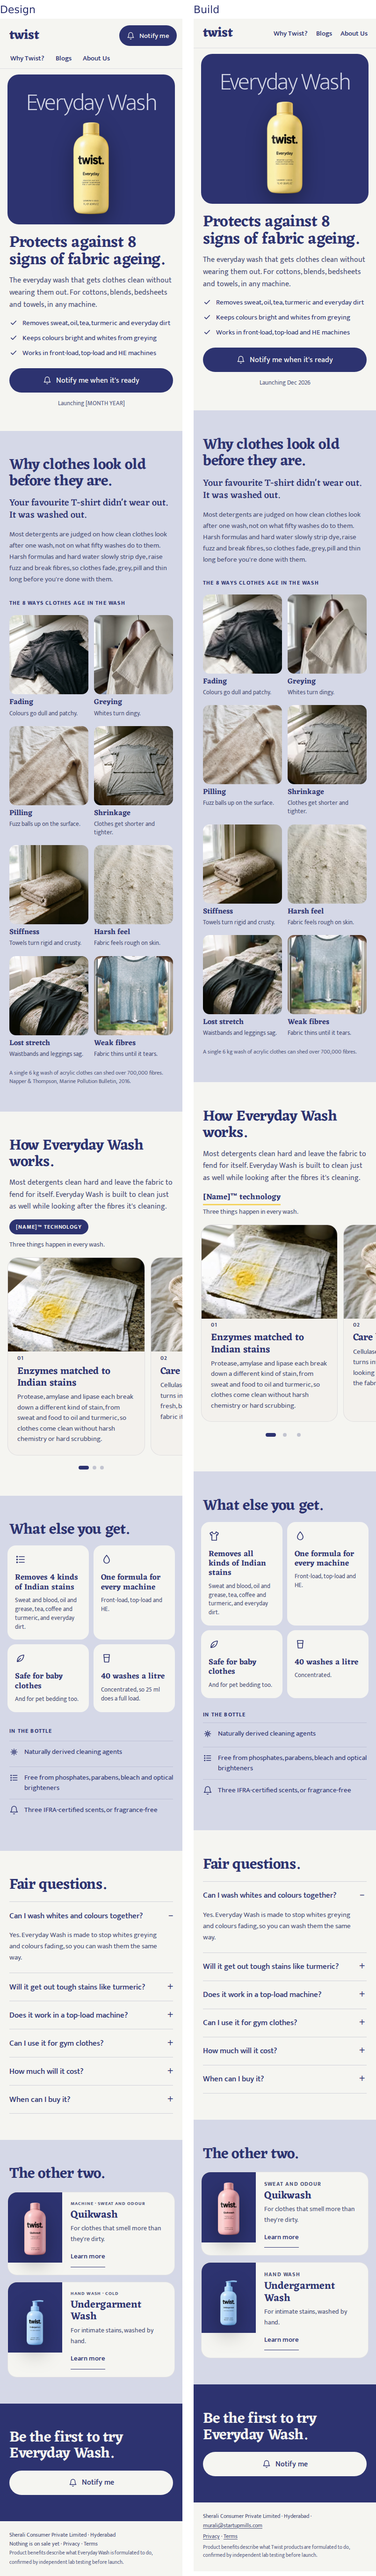
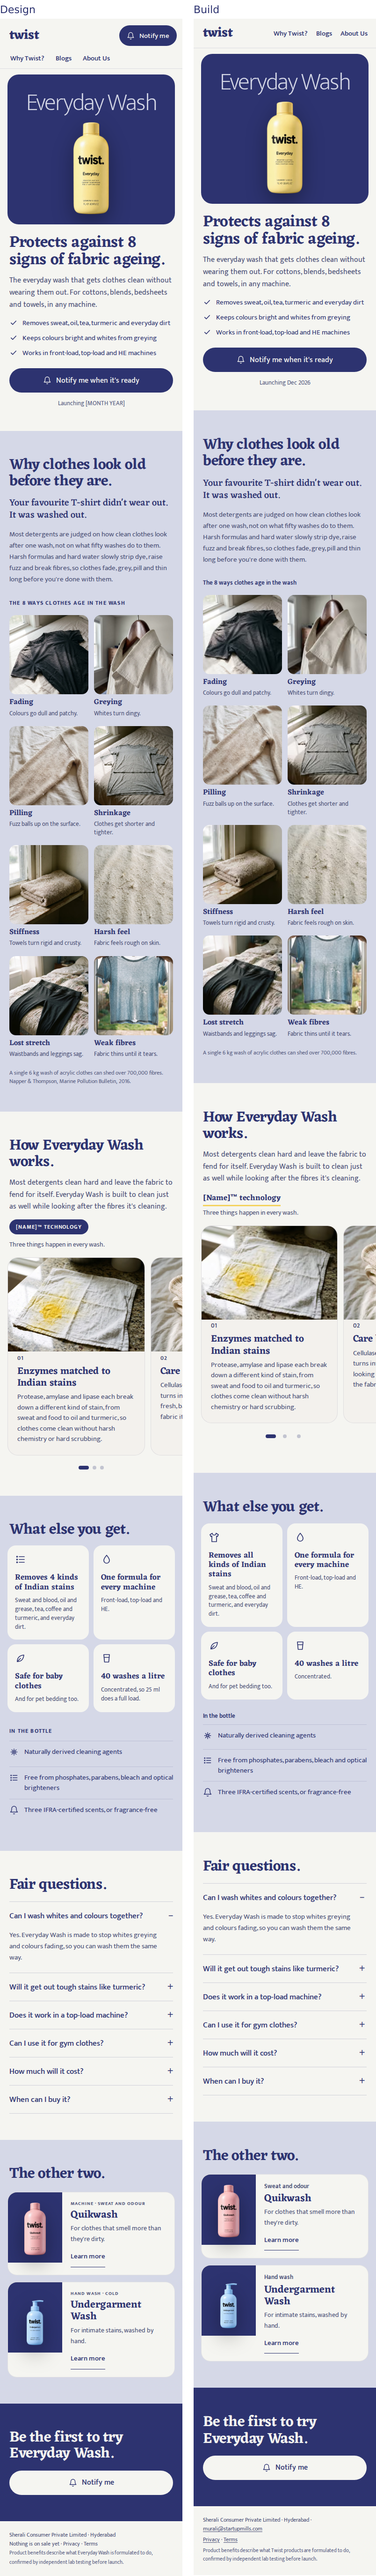
Remove uppercase site-wide; approve design changes; All fabric types tag
- Labels, callouts, table headings, placeholders and illustration text
  now use sentence case (acronyms kept); labels 13px semibold
- Everyday Wash card tag set to 'All fabric types' as requested
- Fix desktop problem illustrations rendering at half size
- IMPROVEMENTS.md, COPY.md and PLACEHOLDERS.md updated; QA refreshed

Claude-Session: https://claude.ai/code/session_01GF7dVvQbUACrui8jtz7QHA

diff --git a/src/data/illustrations.ts b/src/data/illustrations.ts
@@ -1,18 +1,18 @@
 // Generated by scripts/extract-illustrations.py from design-handoff/source. Do not edit by hand.
 export const ILLUS_MOBILE: Record<number, string> = {
-  "1": "<svg focusable=\"false\" width=\"100%\" height=\"110\" viewBox=\"0 0 620 200\" fill=\"none\" role=\"img\" aria-label=\"pH scale with healthy skin below 5 and laundry liquid at 9 or higher\"><g stroke-width=\"1.2\" style=\"stroke:var(--ink)\"><rect x=\"20\" y=\"90\" width=\"41\" height=\"40\" style=\"fill:var(--warm-5)\"></rect><rect x=\"61\" y=\"90\" width=\"41\" height=\"40\" style=\"fill:var(--warm-4)\"></rect><rect x=\"102\" y=\"90\" width=\"41\" height=\"40\" style=\"fill:var(--warm-3)\"></rect><rect x=\"143\" y=\"90\" width=\"41\" height=\"40\" style=\"fill:var(--warm-2)\"></rect><rect x=\"184\" y=\"90\" width=\"41\" height=\"40\" style=\"fill:var(--warm-1)\"></rect><rect x=\"225\" y=\"90\" width=\"123\" height=\"40\" style=\"fill:var(--surface)\"></rect><rect x=\"348\" y=\"90\" width=\"41\" height=\"40\" style=\"fill:var(--cool-1)\"></rect><rect x=\"389\" y=\"90\" width=\"41\" height=\"40\" style=\"fill:var(--cool-3)\"></rect><rect x=\"430\" y=\"90\" width=\"41\" height=\"40\" style=\"fill:var(--cool-5)\"></rect><rect x=\"471\" y=\"90\" width=\"41\" height=\"40\" style=\"fill:var(--cool-6)\"></rect><rect x=\"512\" y=\"90\" width=\"41\" height=\"40\" style=\"fill:var(--cool-8)\"></rect><rect x=\"553\" y=\"90\" width=\"41\" height=\"40\" style=\"fill:var(--cool-9)\"></rect></g><line x1=\"213\" y1=\"44\" x2=\"213\" y2=\"90\" stroke-width=\"3\" style=\"stroke:var(--ink)\"></line><line x1=\"409\" y1=\"44\" x2=\"409\" y2=\"90\" stroke-width=\"3\" style=\"stroke:var(--ink)\"></line><g class=\"svgl\" font-size=\"22\" style=\"fill:var(--ink)\"><text x=\"120\" y=\"32\">SKIN &lt; 5</text><text x=\"350\" y=\"32\">LIQUID 9+</text><text x=\"16\" y=\"170\">0</text><text x=\"290\" y=\"170\">7</text><text x=\"570\" y=\"170\">14</text></g></svg>",
-  "2": "<svg focusable=\"false\" width=\"100%\" height=\"110\" viewBox=\"0 0 620 200\" fill=\"none\" stroke-linecap=\"round\" role=\"img\" aria-label=\"A yarn shedding fibres\" style=\"stroke:var(--ink)\"><path d=\"M40 100 C 120 70, 200 130, 280 100 S 400 70, 440 100\" stroke-width=\"18\" style=\"stroke:var(--quikwash)\"></path><path d=\"M40 100 C 120 70, 200 130, 280 100 S 400 70, 440 100\" stroke-width=\"3\"></path><g stroke-width=\"2.4\"><path d=\"M440 100 q 20 -20 40 -18\"></path><path d=\"M440 100 q 24 -4 46 6\"></path><path d=\"M440 100 q 18 14 36 28\"></path><path d=\"M500 60 q 10 6 22 2\"></path><path d=\"M520 120 q 12 -8 24 -2\"></path><path d=\"M560 80 q 8 10 20 8\"></path></g><text x=\"40\" y=\"180\" class=\"svgl\" font-size=\"22\" stroke=\"none\" style=\"fill:var(--ink)\">700,000+ FIBRES PER WASH</text></svg>",
-  "3": "<svg focusable=\"false\" width=\"100%\" height=\"110\" viewBox=\"0 0 660 200\" fill=\"none\" role=\"img\" aria-label=\"Hardness scale with India's limits at 200 and 600\"><rect x=\"0\" y=\"80\" width=\"198\" height=\"40\" stroke-width=\"1.5\" style=\"fill:var(--cool-2); stroke:var(--ink)\"></rect><rect x=\"198\" y=\"80\" width=\"462\" height=\"40\" stroke-width=\"1.5\" style=\"fill:var(--cool-7); stroke:var(--ink)\"></rect><line x1=\"220\" y1=\"44\" x2=\"220\" y2=\"126\" stroke-width=\"3\" style=\"stroke:var(--ink)\"></line><line x1=\"656\" y1=\"44\" x2=\"656\" y2=\"126\" stroke-width=\"3\" style=\"stroke:var(--ink)\"></line><g class=\"svgl\" font-size=\"22\" style=\"fill:var(--ink)\"><text x=\"228\" y=\"36\">200 BIS OK</text><text x=\"470\" y=\"36\">600 MAX</text><text x=\"330\" y=\"108\">VERY HARD</text><text x=\"0\" y=\"160\">0</text><text x=\"170\" y=\"160\">180</text><text x=\"560\" y=\"160\">MG/L</text></g></svg>",
-  "4": "<svg focusable=\"false\" width=\"100%\" height=\"110\" viewBox=\"0 0 620 220\" fill=\"none\" stroke-width=\"3\" stroke-linecap=\"round\" stroke-linejoin=\"round\" role=\"img\" aria-label=\"Polyester shirt with strong odour next to cotton shirt with weaker odour\" style=\"stroke:var(--ink)\"><g transform=\"translate(110 70)\"><path d=\"M0 20 L30 0 L50 10 Q60 22 70 10 L90 0 L120 20 L105 48 L94 42 L94 120 L26 120 L26 42 L15 48 Z\" style=\"fill:var(--quikwash)\"></path></g><path d=\"M140 60 q8 -12 0 -24 q-8 -12 0 -24 M170 52 q8 -12 0 -24 q-8 -12 0 -24 M200 60 q8 -12 0 -24 q-8 -12 0 -24\" style=\"stroke:var(--ink-muted)\"></path><g transform=\"translate(390 70)\"><path d=\"M0 20 L30 0 L50 10 Q60 22 70 10 L90 0 L120 20 L105 48 L94 42 L94 120 L26 120 L26 42 L15 48 Z\" style=\"fill:var(--surface)\"></path></g><path d=\"M450 58 q8 -12 0 -24\" style=\"stroke:var(--ink-muted)\"></path><g class=\"svgl\" font-size=\"22\" stroke=\"none\" style=\"fill:var(--ink)\"><text x=\"100\" y=\"214\">POLYESTER</text><text x=\"400\" y=\"214\">COTTON</text></g></svg>",
-  "5": "<svg focusable=\"false\" width=\"100%\" height=\"110\" viewBox=\"0 0 620 200\" fill=\"none\" stroke-width=\"3\" stroke-linecap=\"round\" stroke-linejoin=\"round\" role=\"img\" aria-label=\"Protein stain chain cut up by an enzyme\" style=\"stroke:var(--ink)\"><g style=\"fill:var(--warm-5)\"><circle cx=\"60\" cy=\"100\" r=\"16\"></circle><circle cx=\"98\" cy=\"100\" r=\"16\"></circle><circle cx=\"136\" cy=\"100\" r=\"16\"></circle><circle cx=\"174\" cy=\"100\" r=\"16\"></circle><circle cx=\"212\" cy=\"100\" r=\"16\"></circle></g><circle cx=\"300\" cy=\"100\" r=\"32\" style=\"fill:var(--undergarment)\"></circle><path d=\"M300 100 L332 82 A 36 36 0 0 0 332 118 Z\" style=\"fill:var(--surface)\"></path><g style=\"fill:var(--warm-5)\"><circle cx=\"400\" cy=\"80\" r=\"13\"></circle><circle cx=\"440\" cy=\"120\" r=\"13\"></circle><circle cx=\"490\" cy=\"76\" r=\"13\"></circle><circle cx=\"530\" cy=\"120\" r=\"13\"></circle></g><text x=\"40\" y=\"180\" class=\"svgl\" font-size=\"22\" stroke=\"none\" style=\"fill:var(--ink)\">PROTEIN STAIN · ENZYME · CUT UP</text></svg>",
-  "6": "<svg focusable=\"false\" width=\"100%\" height=\"110\" viewBox=\"0 0 620 210\" fill=\"none\" stroke-width=\"3\" stroke-linejoin=\"round\" role=\"img\" aria-label=\"Detergent pack split into cleaning ingredients and filler, illustrative\" style=\"stroke:var(--ink)\"><rect x=\"200\" y=\"70\" width=\"200\" height=\"50\" stroke=\"none\" style=\"fill:var(--everyday)\"></rect><rect x=\"200\" y=\"120\" width=\"200\" height=\"70\" stroke=\"none\" style=\"fill:var(--surface-alt)\"></rect><path d=\"M200 30 h190 l10 20 v140 h-200 v-140 Z\"></path><line x1=\"200\" y1=\"120\" x2=\"400\" y2=\"120\" stroke-dasharray=\"6 6\"></line><g class=\"svgl\" font-size=\"22\" stroke=\"none\" style=\"fill:var(--ink)\"><text x=\"416\" y=\"102\">CLEANING</text><text x=\"416\" y=\"162\">FILLER</text><text x=\"20\" y=\"160\">NOT TO</text><text x=\"20\" y=\"186\">SCALE</text></g></svg>"
+  "1": "<svg focusable=\"false\" width=\"100%\" height=\"110\" viewBox=\"0 0 620 200\" fill=\"none\" role=\"img\" aria-label=\"pH scale with healthy skin below 5 and laundry liquid at 9 or higher\"><g stroke-width=\"1.2\" style=\"stroke:var(--ink)\"><rect x=\"20\" y=\"90\" width=\"41\" height=\"40\" style=\"fill:var(--warm-5)\"></rect><rect x=\"61\" y=\"90\" width=\"41\" height=\"40\" style=\"fill:var(--warm-4)\"></rect><rect x=\"102\" y=\"90\" width=\"41\" height=\"40\" style=\"fill:var(--warm-3)\"></rect><rect x=\"143\" y=\"90\" width=\"41\" height=\"40\" style=\"fill:var(--warm-2)\"></rect><rect x=\"184\" y=\"90\" width=\"41\" height=\"40\" style=\"fill:var(--warm-1)\"></rect><rect x=\"225\" y=\"90\" width=\"123\" height=\"40\" style=\"fill:var(--surface)\"></rect><rect x=\"348\" y=\"90\" width=\"41\" height=\"40\" style=\"fill:var(--cool-1)\"></rect><rect x=\"389\" y=\"90\" width=\"41\" height=\"40\" style=\"fill:var(--cool-3)\"></rect><rect x=\"430\" y=\"90\" width=\"41\" height=\"40\" style=\"fill:var(--cool-5)\"></rect><rect x=\"471\" y=\"90\" width=\"41\" height=\"40\" style=\"fill:var(--cool-6)\"></rect><rect x=\"512\" y=\"90\" width=\"41\" height=\"40\" style=\"fill:var(--cool-8)\"></rect><rect x=\"553\" y=\"90\" width=\"41\" height=\"40\" style=\"fill:var(--cool-9)\"></rect></g><line x1=\"213\" y1=\"44\" x2=\"213\" y2=\"90\" stroke-width=\"3\" style=\"stroke:var(--ink)\"></line><line x1=\"409\" y1=\"44\" x2=\"409\" y2=\"90\" stroke-width=\"3\" style=\"stroke:var(--ink)\"></line><g class=\"svgl\" font-size=\"22\" style=\"fill:var(--ink)\"><text x=\"120\" y=\"32\">Skin &lt; 5</text><text x=\"350\" y=\"32\">Liquid 9+</text><text x=\"16\" y=\"170\">0</text><text x=\"290\" y=\"170\">7</text><text x=\"570\" y=\"170\">14</text></g></svg>",
+  "2": "<svg focusable=\"false\" width=\"100%\" height=\"110\" viewBox=\"0 0 620 200\" fill=\"none\" stroke-linecap=\"round\" role=\"img\" aria-label=\"A yarn shedding fibres\" style=\"stroke:var(--ink)\"><path d=\"M40 100 C 120 70, 200 130, 280 100 S 400 70, 440 100\" stroke-width=\"18\" style=\"stroke:var(--quikwash)\"></path><path d=\"M40 100 C 120 70, 200 130, 280 100 S 400 70, 440 100\" stroke-width=\"3\"></path><g stroke-width=\"2.4\"><path d=\"M440 100 q 20 -20 40 -18\"></path><path d=\"M440 100 q 24 -4 46 6\"></path><path d=\"M440 100 q 18 14 36 28\"></path><path d=\"M500 60 q 10 6 22 2\"></path><path d=\"M520 120 q 12 -8 24 -2\"></path><path d=\"M560 80 q 8 10 20 8\"></path></g><text x=\"40\" y=\"180\" class=\"svgl\" font-size=\"22\" stroke=\"none\" style=\"fill:var(--ink)\">700,000+ fibres per wash</text></svg>",
+  "3": "<svg focusable=\"false\" width=\"100%\" height=\"110\" viewBox=\"0 0 660 200\" fill=\"none\" role=\"img\" aria-label=\"Hardness scale with India's limits at 200 and 600\"><rect x=\"0\" y=\"80\" width=\"198\" height=\"40\" stroke-width=\"1.5\" style=\"fill:var(--cool-2); stroke:var(--ink)\"></rect><rect x=\"198\" y=\"80\" width=\"462\" height=\"40\" stroke-width=\"1.5\" style=\"fill:var(--cool-7); stroke:var(--ink)\"></rect><line x1=\"220\" y1=\"44\" x2=\"220\" y2=\"126\" stroke-width=\"3\" style=\"stroke:var(--ink)\"></line><line x1=\"656\" y1=\"44\" x2=\"656\" y2=\"126\" stroke-width=\"3\" style=\"stroke:var(--ink)\"></line><g class=\"svgl\" font-size=\"22\" style=\"fill:var(--ink)\"><text x=\"228\" y=\"36\">200 BIS OK</text><text x=\"470\" y=\"36\">600 max</text><text x=\"330\" y=\"108\">Very hard</text><text x=\"0\" y=\"160\">0</text><text x=\"170\" y=\"160\">180</text><text x=\"560\" y=\"160\">mg/L</text></g></svg>",
+  "4": "<svg focusable=\"false\" width=\"100%\" height=\"110\" viewBox=\"0 0 620 220\" fill=\"none\" stroke-width=\"3\" stroke-linecap=\"round\" stroke-linejoin=\"round\" role=\"img\" aria-label=\"Polyester shirt with strong odour next to cotton shirt with weaker odour\" style=\"stroke:var(--ink)\"><g transform=\"translate(110 70)\"><path d=\"M0 20 L30 0 L50 10 Q60 22 70 10 L90 0 L120 20 L105 48 L94 42 L94 120 L26 120 L26 42 L15 48 Z\" style=\"fill:var(--quikwash)\"></path></g><path d=\"M140 60 q8 -12 0 -24 q-8 -12 0 -24 M170 52 q8 -12 0 -24 q-8 -12 0 -24 M200 60 q8 -12 0 -24 q-8 -12 0 -24\" style=\"stroke:var(--ink-muted)\"></path><g transform=\"translate(390 70)\"><path d=\"M0 20 L30 0 L50 10 Q60 22 70 10 L90 0 L120 20 L105 48 L94 42 L94 120 L26 120 L26 42 L15 48 Z\" style=\"fill:var(--surface)\"></path></g><path d=\"M450 58 q8 -12 0 -24\" style=\"stroke:var(--ink-muted)\"></path><g class=\"svgl\" font-size=\"22\" stroke=\"none\" style=\"fill:var(--ink)\"><text x=\"100\" y=\"214\">Polyester</text><text x=\"400\" y=\"214\">Cotton</text></g></svg>",
+  "5": "<svg focusable=\"false\" width=\"100%\" height=\"110\" viewBox=\"0 0 620 200\" fill=\"none\" stroke-width=\"3\" stroke-linecap=\"round\" stroke-linejoin=\"round\" role=\"img\" aria-label=\"Protein stain chain cut up by an enzyme\" style=\"stroke:var(--ink)\"><g style=\"fill:var(--warm-5)\"><circle cx=\"60\" cy=\"100\" r=\"16\"></circle><circle cx=\"98\" cy=\"100\" r=\"16\"></circle><circle cx=\"136\" cy=\"100\" r=\"16\"></circle><circle cx=\"174\" cy=\"100\" r=\"16\"></circle><circle cx=\"212\" cy=\"100\" r=\"16\"></circle></g><circle cx=\"300\" cy=\"100\" r=\"32\" style=\"fill:var(--undergarment)\"></circle><path d=\"M300 100 L332 82 A 36 36 0 0 0 332 118 Z\" style=\"fill:var(--surface)\"></path><g style=\"fill:var(--warm-5)\"><circle cx=\"400\" cy=\"80\" r=\"13\"></circle><circle cx=\"440\" cy=\"120\" r=\"13\"></circle><circle cx=\"490\" cy=\"76\" r=\"13\"></circle><circle cx=\"530\" cy=\"120\" r=\"13\"></circle></g><text x=\"40\" y=\"180\" class=\"svgl\" font-size=\"22\" stroke=\"none\" style=\"fill:var(--ink)\">Protein stain · enzyme · cut up</text></svg>",
+  "6": "<svg focusable=\"false\" width=\"100%\" height=\"110\" viewBox=\"0 0 620 210\" fill=\"none\" stroke-width=\"3\" stroke-linejoin=\"round\" role=\"img\" aria-label=\"Detergent pack split into cleaning ingredients and filler, illustrative\" style=\"stroke:var(--ink)\"><rect x=\"200\" y=\"70\" width=\"200\" height=\"50\" stroke=\"none\" style=\"fill:var(--everyday)\"></rect><rect x=\"200\" y=\"120\" width=\"200\" height=\"70\" stroke=\"none\" style=\"fill:var(--surface-alt)\"></rect><path d=\"M200 30 h190 l10 20 v140 h-200 v-140 Z\"></path><line x1=\"200\" y1=\"120\" x2=\"400\" y2=\"120\" stroke-dasharray=\"6 6\"></line><g class=\"svgl\" font-size=\"22\" stroke=\"none\" style=\"fill:var(--ink)\"><text x=\"416\" y=\"102\">Cleaning</text><text x=\"416\" y=\"162\">Filler</text><text x=\"20\" y=\"160\">Not to</text><text x=\"20\" y=\"186\">scale</text></g></svg>"
 };
 
 export const ILLUS_DESKTOP: Record<number, string> = {
-  "1": "<svg focusable=\"false\" width=\"620\" height=\"200\" viewBox=\"0 0 620 200\" fill=\"none\" role=\"img\" aria-label=\"pH scale from 0 to 14 with healthy skin below 5 and laundry liquid at 9 or higher\"><g stroke-width=\"1.2\" style=\"stroke:var(--ink)\"><rect x=\"20\" y=\"90\" width=\"41\" height=\"40\" style=\"fill:var(--warm-5)\"></rect><rect x=\"61\" y=\"90\" width=\"41\" height=\"40\" style=\"fill:var(--warm-4)\"></rect><rect x=\"102\" y=\"90\" width=\"41\" height=\"40\" style=\"fill:var(--warm-3)\"></rect><rect x=\"143\" y=\"90\" width=\"41\" height=\"40\" style=\"fill:var(--warm-2)\"></rect><rect x=\"184\" y=\"90\" width=\"41\" height=\"40\" style=\"fill:var(--warm-1)\"></rect><rect x=\"225\" y=\"90\" width=\"41\" height=\"40\" style=\"fill:var(--surface)\"></rect><rect x=\"266\" y=\"90\" width=\"41\" height=\"40\" style=\"fill:var(--surface)\"></rect><rect x=\"307\" y=\"90\" width=\"41\" height=\"40\" style=\"fill:var(--surface)\"></rect><rect x=\"348\" y=\"90\" width=\"41\" height=\"40\" style=\"fill:var(--cool-1)\"></rect><rect x=\"389\" y=\"90\" width=\"41\" height=\"40\" style=\"fill:var(--cool-3)\"></rect><rect x=\"430\" y=\"90\" width=\"41\" height=\"40\" style=\"fill:var(--cool-5)\"></rect><rect x=\"471\" y=\"90\" width=\"41\" height=\"40\" style=\"fill:var(--cool-6)\"></rect><rect x=\"512\" y=\"90\" width=\"41\" height=\"40\" style=\"fill:var(--cool-8)\"></rect><rect x=\"553\" y=\"90\" width=\"41\" height=\"40\" style=\"fill:var(--cool-9)\"></rect></g><g class=\"svgl\" font-size=\"11\" style=\"fill:var(--ink-muted)\"><text x=\"16\" y=\"150\">0</text><text x=\"292\" y=\"150\">7</text><text x=\"584\" y=\"150\">14</text><text x=\"20\" y=\"172\">ACIDIC</text><text x=\"276\" y=\"172\">NEUTRAL</text><text x=\"536\" y=\"172\">ALKALINE</text></g><line x1=\"213\" y1=\"44\" x2=\"213\" y2=\"90\" stroke-width=\"2\" style=\"stroke:var(--ink)\"></line><circle cx=\"213\" cy=\"44\" r=\"5\" style=\"fill:var(--ink)\"></circle><text x=\"120\" y=\"32\" class=\"svgl\" font-size=\"12\" style=\"fill:var(--ink)\">HEALTHY SKIN · BELOW 5</text><line x1=\"409\" y1=\"44\" x2=\"409\" y2=\"90\" stroke-width=\"2\" style=\"stroke:var(--ink)\"></line><circle cx=\"409\" cy=\"44\" r=\"5\" style=\"fill:var(--ink)\"></circle><text x=\"339\" y=\"32\" class=\"svgl\" font-size=\"12\" style=\"fill:var(--ink)\">LAUNDRY LIQUID · 9+</text></svg>",
-  "2": "<svg focusable=\"false\" width=\"620\" height=\"200\" viewBox=\"0 0 620 200\" fill=\"none\" stroke-linecap=\"round\" role=\"img\" aria-label=\"A yarn fraying and shedding loose fibres\" style=\"stroke:var(--ink)\"><path d=\"M40 110 C 120 80, 200 140, 280 110 S 400 80, 440 110\" stroke-width=\"14\" style=\"stroke:var(--quikwash)\"></path><path d=\"M40 110 C 120 80, 200 140, 280 110 S 400 80, 440 110\" stroke-width=\"2\"></path><path d=\"M60 104 C 120 76, 200 136, 280 104 S 400 76, 440 104\" stroke-width=\"1.2\" opacity=\".5\"></path><path d=\"M60 116 C 120 88, 200 148, 280 116 S 400 88, 440 116\" stroke-width=\"1.2\" opacity=\".5\"></path><g stroke-width=\"1.4\"><path d=\"M440 110 q 20 -20 40 -18\"></path><path d=\"M440 110 q 24 -4 46 6\"></path><path d=\"M440 110 q 18 14 36 28\"></path><path d=\"M500 70 q 10 6 22 2\"></path><path d=\"M520 120 q 12 -8 24 -2\"></path><path d=\"M540 88 q 8 10 20 8\"></path><path d=\"M560 140 q 10 -4 18 4\"></path><path d=\"M580 100 q 6 -8 16 -6\"></path><path d=\"M500 160 q 10 -6 20 0\"></path><path d=\"M556 56 q 8 4 16 0\"></path></g><text x=\"40\" y=\"180\" class=\"svgl\" font-size=\"12\" stroke=\"none\" style=\"fill:var(--ink)\">ONE 6 KG ACRYLIC WASH · 700,000+ FIBRES SHED</text></svg>",
-  "3": "<svg focusable=\"false\" width=\"620\" height=\"200\" viewBox=\"0 0 660 200\" fill=\"none\" role=\"img\" aria-label=\"Water hardness scale from 0 to 600 milligrams per litre with India's limits at 200 and 600\"><rect x=\"0\" y=\"80\" width=\"66\" height=\"36\" stroke-width=\"1.5\" style=\"fill:var(--surface); stroke:var(--ink)\"></rect><rect x=\"66\" y=\"80\" width=\"66\" height=\"36\" stroke-width=\"1.5\" style=\"fill:var(--cool-2); stroke:var(--ink)\"></rect><rect x=\"132\" y=\"80\" width=\"66\" height=\"36\" stroke-width=\"1.5\" style=\"fill:var(--cool-4); stroke:var(--ink)\"></rect><rect x=\"198\" y=\"80\" width=\"462\" height=\"36\" stroke-width=\"1.5\" style=\"fill:var(--cool-7); stroke:var(--ink)\"></rect><g class=\"svgl\" font-size=\"11\" style=\"fill:var(--ink)\"><text x=\"6\" y=\"103\">SOFT</text><text x=\"72\" y=\"103\">MOD.</text><text x=\"138\" y=\"103\">HARD</text><text x=\"360\" y=\"103\">VERY HARD</text></g><g class=\"svgl\" font-size=\"11\" style=\"fill:var(--ink-muted)\"><text x=\"0\" y=\"136\">0</text><text x=\"186\" y=\"136\">180</text><text x=\"630\" y=\"136\">600 MG/L</text></g><line x1=\"220\" y1=\"50\" x2=\"220\" y2=\"122\" stroke-width=\"2\" style=\"stroke:var(--ink)\"></line><circle cx=\"220\" cy=\"50\" r=\"4\" style=\"fill:var(--ink)\"></circle><text x=\"228\" y=\"46\" class=\"svgl\" font-size=\"11\" style=\"fill:var(--ink)\">200 · BIS ACCEPTABLE</text><line x1=\"658\" y1=\"50\" x2=\"658\" y2=\"122\" stroke-width=\"2\" style=\"stroke:var(--ink)\"></line><circle cx=\"658\" cy=\"50\" r=\"4\" style=\"fill:var(--ink)\"></circle><text x=\"452\" y=\"30\" class=\"svgl\" font-size=\"11\" style=\"fill:var(--ink)\">600 · BIS IF NO OTHER SOURCE</text></svg>",
-  "4": "<svg focusable=\"false\" width=\"620\" height=\"210\" viewBox=\"0 0 620 210\" fill=\"none\" stroke-width=\"2\" stroke-linecap=\"round\" stroke-linejoin=\"round\" role=\"img\" aria-label=\"A polyester shirt giving off strong odour next to a cotton shirt giving off much less\" style=\"stroke:var(--ink)\"><g transform=\"translate(110 70)\"><path d=\"M0 20 L30 0 L50 10 Q60 22 70 10 L90 0 L120 20 L105 48 L94 42 L94 120 L26 120 L26 42 L15 48 Z\" style=\"fill:var(--quikwash)\"></path></g><path d=\"M140 60 q8 -12 0 -24 q-8 -12 0 -24 M170 52 q8 -12 0 -24 q-8 -12 0 -24 M200 60 q8 -12 0 -24 q-8 -12 0 -24\" stroke-width=\"1.8\" style=\"stroke:var(--ink-muted)\"></path><g stroke=\"none\" style=\"fill:var(--ink)\"><ellipse cx=\"150\" cy=\"130\" rx=\"5\" ry=\"3\"></ellipse><ellipse cx=\"172\" cy=\"146\" rx=\"5\" ry=\"3\"></ellipse><ellipse cx=\"190\" cy=\"124\" rx=\"5\" ry=\"3\"></ellipse><ellipse cx=\"160\" cy=\"162\" rx=\"5\" ry=\"3\"></ellipse><ellipse cx=\"200\" cy=\"156\" rx=\"5\" ry=\"3\"></ellipse></g><g transform=\"translate(390 70)\"><path d=\"M0 20 L30 0 L50 10 Q60 22 70 10 L90 0 L120 20 L105 48 L94 42 L94 120 L26 120 L26 42 L15 48 Z\" style=\"fill:var(--surface)\"></path></g><path d=\"M450 58 q8 -12 0 -24\" stroke-width=\"1.8\" style=\"stroke:var(--ink-muted)\"></path><g class=\"svgl\" font-size=\"12\" stroke=\"none\" style=\"fill:var(--ink)\"><text x=\"120\" y=\"206\">POLYESTER · STRONGER ODOUR</text><text x=\"400\" y=\"206\">COTTON · WEAKER</text></g></svg>",
-  "5": "<svg focusable=\"false\" width=\"620\" height=\"200\" viewBox=\"0 0 620 200\" fill=\"none\" stroke-width=\"2\" stroke-linecap=\"round\" stroke-linejoin=\"round\" role=\"img\" aria-label=\"A protein stain chain being cut into small pieces by an enzyme, next to a bar of soap with no enzymes\" style=\"stroke:var(--ink)\"><rect x=\"40\" y=\"70\" width=\"130\" height=\"70\" rx=\"18\" style=\"fill:var(--surface)\"></rect><path d=\"M60 92 h90 M60 106 h70\" stroke-width=\"1.4\" opacity=\".4\"></path><text x=\"44\" y=\"170\" class=\"svgl\" font-size=\"12\" stroke=\"none\" style=\"fill:var(--ink)\">BAR SOAP · NO ENZYMES</text><g stroke-width=\"1.4\" style=\"fill:var(--warm-5); stroke:var(--ink)\"><circle cx=\"250\" cy=\"100\" r=\"11\"></circle><circle cx=\"276\" cy=\"100\" r=\"11\"></circle><circle cx=\"302\" cy=\"100\" r=\"11\"></circle><circle cx=\"328\" cy=\"100\" r=\"11\"></circle><circle cx=\"354\" cy=\"100\" r=\"11\"></circle></g><path d=\"M380 76 L406 100 L380 124\" stroke-width=\"2.4\"></path><path d=\"M388 100 h40\" stroke-dasharray=\"3 5\"></path><circle cx=\"398\" cy=\"100\" r=\"22\" style=\"fill:var(--undergarment)\"></circle><path d=\"M398 100 L420 88 A 24 24 0 0 0 420 112 Z\" style=\"fill:var(--surface)\"></path><g stroke-width=\"1.4\" style=\"fill:var(--warm-5); stroke:var(--ink)\"><circle cx=\"470\" cy=\"84\" r=\"9\"></circle><circle cx=\"500\" cy=\"112\" r=\"9\"></circle><circle cx=\"530\" cy=\"80\" r=\"9\"></circle><circle cx=\"556\" cy=\"116\" r=\"9\"></circle></g><text x=\"240\" y=\"170\" class=\"svgl\" font-size=\"12\" stroke=\"none\" style=\"fill:var(--ink)\">PROTEIN STAIN · CUT UP BY AN ENZYME</text></svg>",
-  "6": "<svg focusable=\"false\" width=\"620\" height=\"210\" viewBox=\"0 0 620 210\" fill=\"none\" stroke-width=\"2\" stroke-linejoin=\"round\" role=\"img\" aria-label=\"Cross-section of a detergent pack split into filler and cleaning ingredients, illustrative only\" style=\"stroke:var(--ink)\"><path d=\"M220 30 h180 l10 20 v140 h-200 v-140 Z\" style=\"fill:var(--surface)\"></path><rect x=\"212\" y=\"120\" width=\"196\" height=\"68\" stroke=\"none\" style=\"fill:var(--surface-alt)\"></rect><g stroke-width=\"1\" opacity=\".6\" style=\"stroke:var(--ink-muted)\"><path d=\"M220 130 l20 -10 M240 150 l40 -20 M260 170 l60 -30 M300 180 l80 -40 M350 186 l58 -30 M220 170 l40 -20\"></path></g><rect x=\"212\" y=\"70\" width=\"196\" height=\"50\" stroke=\"none\" style=\"fill:var(--everyday)\"></rect><path d=\"M220 30 h180 l10 20 v140 h-200 v-140 Z\" fill=\"none\"></path><line x1=\"210\" y1=\"120\" x2=\"410\" y2=\"120\" stroke-dasharray=\"4 4\"></line><g class=\"svgl\" font-size=\"12\" stroke=\"none\" style=\"fill:var(--ink)\"><text x=\"430\" y=\"100\">CLEANING INGREDIENTS</text><text x=\"430\" y=\"160\">FILLER · ADDS WEIGHT</text><text x=\"30\" y=\"160\">ILLUSTRATIVE,</text><text x=\"30\" y=\"176\">NOT TO SCALE</text></g><path d=\"M424 96 h-14 M424 156 h-14\"></path></svg>"
+  "1": "<svg focusable=\"false\" width=\"620\" height=\"200\" viewBox=\"0 0 620 200\" fill=\"none\" role=\"img\" aria-label=\"pH scale from 0 to 14 with healthy skin below 5 and laundry liquid at 9 or higher\"><g stroke-width=\"1.2\" style=\"stroke:var(--ink)\"><rect x=\"20\" y=\"90\" width=\"41\" height=\"40\" style=\"fill:var(--warm-5)\"></rect><rect x=\"61\" y=\"90\" width=\"41\" height=\"40\" style=\"fill:var(--warm-4)\"></rect><rect x=\"102\" y=\"90\" width=\"41\" height=\"40\" style=\"fill:var(--warm-3)\"></rect><rect x=\"143\" y=\"90\" width=\"41\" height=\"40\" style=\"fill:var(--warm-2)\"></rect><rect x=\"184\" y=\"90\" width=\"41\" height=\"40\" style=\"fill:var(--warm-1)\"></rect><rect x=\"225\" y=\"90\" width=\"41\" height=\"40\" style=\"fill:var(--surface)\"></rect><rect x=\"266\" y=\"90\" width=\"41\" height=\"40\" style=\"fill:var(--surface)\"></rect><rect x=\"307\" y=\"90\" width=\"41\" height=\"40\" style=\"fill:var(--surface)\"></rect><rect x=\"348\" y=\"90\" width=\"41\" height=\"40\" style=\"fill:var(--cool-1)\"></rect><rect x=\"389\" y=\"90\" width=\"41\" height=\"40\" style=\"fill:var(--cool-3)\"></rect><rect x=\"430\" y=\"90\" width=\"41\" height=\"40\" style=\"fill:var(--cool-5)\"></rect><rect x=\"471\" y=\"90\" width=\"41\" height=\"40\" style=\"fill:var(--cool-6)\"></rect><rect x=\"512\" y=\"90\" width=\"41\" height=\"40\" style=\"fill:var(--cool-8)\"></rect><rect x=\"553\" y=\"90\" width=\"41\" height=\"40\" style=\"fill:var(--cool-9)\"></rect></g><g class=\"svgl\" font-size=\"11\" style=\"fill:var(--ink-muted)\"><text x=\"16\" y=\"150\">0</text><text x=\"292\" y=\"150\">7</text><text x=\"584\" y=\"150\">14</text><text x=\"20\" y=\"172\">Acidic</text><text x=\"276\" y=\"172\">Neutral</text><text x=\"536\" y=\"172\">Alkaline</text></g><line x1=\"213\" y1=\"44\" x2=\"213\" y2=\"90\" stroke-width=\"2\" style=\"stroke:var(--ink)\"></line><circle cx=\"213\" cy=\"44\" r=\"5\" style=\"fill:var(--ink)\"></circle><text x=\"120\" y=\"32\" class=\"svgl\" font-size=\"12\" style=\"fill:var(--ink)\">Healthy skin · below 5</text><line x1=\"409\" y1=\"44\" x2=\"409\" y2=\"90\" stroke-width=\"2\" style=\"stroke:var(--ink)\"></line><circle cx=\"409\" cy=\"44\" r=\"5\" style=\"fill:var(--ink)\"></circle><text x=\"339\" y=\"32\" class=\"svgl\" font-size=\"12\" style=\"fill:var(--ink)\">Laundry liquid · 9+</text></svg>",
+  "2": "<svg focusable=\"false\" width=\"620\" height=\"200\" viewBox=\"0 0 620 200\" fill=\"none\" stroke-linecap=\"round\" role=\"img\" aria-label=\"A yarn fraying and shedding loose fibres\" style=\"stroke:var(--ink)\"><path d=\"M40 110 C 120 80, 200 140, 280 110 S 400 80, 440 110\" stroke-width=\"14\" style=\"stroke:var(--quikwash)\"></path><path d=\"M40 110 C 120 80, 200 140, 280 110 S 400 80, 440 110\" stroke-width=\"2\"></path><path d=\"M60 104 C 120 76, 200 136, 280 104 S 400 76, 440 104\" stroke-width=\"1.2\" opacity=\".5\"></path><path d=\"M60 116 C 120 88, 200 148, 280 116 S 400 88, 440 116\" stroke-width=\"1.2\" opacity=\".5\"></path><g stroke-width=\"1.4\"><path d=\"M440 110 q 20 -20 40 -18\"></path><path d=\"M440 110 q 24 -4 46 6\"></path><path d=\"M440 110 q 18 14 36 28\"></path><path d=\"M500 70 q 10 6 22 2\"></path><path d=\"M520 120 q 12 -8 24 -2\"></path><path d=\"M540 88 q 8 10 20 8\"></path><path d=\"M560 140 q 10 -4 18 4\"></path><path d=\"M580 100 q 6 -8 16 -6\"></path><path d=\"M500 160 q 10 -6 20 0\"></path><path d=\"M556 56 q 8 4 16 0\"></path></g><text x=\"40\" y=\"180\" class=\"svgl\" font-size=\"12\" stroke=\"none\" style=\"fill:var(--ink)\">One 6 kg acrylic wash · 700,000+ fibres shed</text></svg>",
+  "3": "<svg focusable=\"false\" width=\"620\" height=\"200\" viewBox=\"0 0 660 200\" fill=\"none\" role=\"img\" aria-label=\"Water hardness scale from 0 to 600 milligrams per litre with India's limits at 200 and 600\"><rect x=\"0\" y=\"80\" width=\"66\" height=\"36\" stroke-width=\"1.5\" style=\"fill:var(--surface); stroke:var(--ink)\"></rect><rect x=\"66\" y=\"80\" width=\"66\" height=\"36\" stroke-width=\"1.5\" style=\"fill:var(--cool-2); stroke:var(--ink)\"></rect><rect x=\"132\" y=\"80\" width=\"66\" height=\"36\" stroke-width=\"1.5\" style=\"fill:var(--cool-4); stroke:var(--ink)\"></rect><rect x=\"198\" y=\"80\" width=\"462\" height=\"36\" stroke-width=\"1.5\" style=\"fill:var(--cool-7); stroke:var(--ink)\"></rect><g class=\"svgl\" font-size=\"11\" style=\"fill:var(--ink)\"><text x=\"6\" y=\"103\">Soft</text><text x=\"72\" y=\"103\">Mod.</text><text x=\"138\" y=\"103\">Hard</text><text x=\"360\" y=\"103\">Very hard</text></g><g class=\"svgl\" font-size=\"11\" style=\"fill:var(--ink-muted)\"><text x=\"0\" y=\"136\">0</text><text x=\"186\" y=\"136\">180</text><text x=\"630\" y=\"136\">600 mg/L</text></g><line x1=\"220\" y1=\"50\" x2=\"220\" y2=\"122\" stroke-width=\"2\" style=\"stroke:var(--ink)\"></line><circle cx=\"220\" cy=\"50\" r=\"4\" style=\"fill:var(--ink)\"></circle><text x=\"228\" y=\"46\" class=\"svgl\" font-size=\"11\" style=\"fill:var(--ink)\">200 · BIS acceptable</text><line x1=\"658\" y1=\"50\" x2=\"658\" y2=\"122\" stroke-width=\"2\" style=\"stroke:var(--ink)\"></line><circle cx=\"658\" cy=\"50\" r=\"4\" style=\"fill:var(--ink)\"></circle><text x=\"452\" y=\"30\" class=\"svgl\" font-size=\"11\" style=\"fill:var(--ink)\">600 · BIS if no other source</text></svg>",
+  "4": "<svg focusable=\"false\" width=\"620\" height=\"210\" viewBox=\"0 0 620 210\" fill=\"none\" stroke-width=\"2\" stroke-linecap=\"round\" stroke-linejoin=\"round\" role=\"img\" aria-label=\"A polyester shirt giving off strong odour next to a cotton shirt giving off much less\" style=\"stroke:var(--ink)\"><g transform=\"translate(110 70)\"><path d=\"M0 20 L30 0 L50 10 Q60 22 70 10 L90 0 L120 20 L105 48 L94 42 L94 120 L26 120 L26 42 L15 48 Z\" style=\"fill:var(--quikwash)\"></path></g><path d=\"M140 60 q8 -12 0 -24 q-8 -12 0 -24 M170 52 q8 -12 0 -24 q-8 -12 0 -24 M200 60 q8 -12 0 -24 q-8 -12 0 -24\" stroke-width=\"1.8\" style=\"stroke:var(--ink-muted)\"></path><g stroke=\"none\" style=\"fill:var(--ink)\"><ellipse cx=\"150\" cy=\"130\" rx=\"5\" ry=\"3\"></ellipse><ellipse cx=\"172\" cy=\"146\" rx=\"5\" ry=\"3\"></ellipse><ellipse cx=\"190\" cy=\"124\" rx=\"5\" ry=\"3\"></ellipse><ellipse cx=\"160\" cy=\"162\" rx=\"5\" ry=\"3\"></ellipse><ellipse cx=\"200\" cy=\"156\" rx=\"5\" ry=\"3\"></ellipse></g><g transform=\"translate(390 70)\"><path d=\"M0 20 L30 0 L50 10 Q60 22 70 10 L90 0 L120 20 L105 48 L94 42 L94 120 L26 120 L26 42 L15 48 Z\" style=\"fill:var(--surface)\"></path></g><path d=\"M450 58 q8 -12 0 -24\" stroke-width=\"1.8\" style=\"stroke:var(--ink-muted)\"></path><g class=\"svgl\" font-size=\"12\" stroke=\"none\" style=\"fill:var(--ink)\"><text x=\"120\" y=\"206\">Polyester · stronger odour</text><text x=\"400\" y=\"206\">Cotton · weaker</text></g></svg>",
+  "5": "<svg focusable=\"false\" width=\"620\" height=\"200\" viewBox=\"0 0 620 200\" fill=\"none\" stroke-width=\"2\" stroke-linecap=\"round\" stroke-linejoin=\"round\" role=\"img\" aria-label=\"A protein stain chain being cut into small pieces by an enzyme, next to a bar of soap with no enzymes\" style=\"stroke:var(--ink)\"><rect x=\"40\" y=\"70\" width=\"130\" height=\"70\" rx=\"18\" style=\"fill:var(--surface)\"></rect><path d=\"M60 92 h90 M60 106 h70\" stroke-width=\"1.4\" opacity=\".4\"></path><text x=\"44\" y=\"170\" class=\"svgl\" font-size=\"12\" stroke=\"none\" style=\"fill:var(--ink)\">Bar soap · no enzymes</text><g stroke-width=\"1.4\" style=\"fill:var(--warm-5); stroke:var(--ink)\"><circle cx=\"250\" cy=\"100\" r=\"11\"></circle><circle cx=\"276\" cy=\"100\" r=\"11\"></circle><circle cx=\"302\" cy=\"100\" r=\"11\"></circle><circle cx=\"328\" cy=\"100\" r=\"11\"></circle><circle cx=\"354\" cy=\"100\" r=\"11\"></circle></g><path d=\"M380 76 L406 100 L380 124\" stroke-width=\"2.4\"></path><path d=\"M388 100 h40\" stroke-dasharray=\"3 5\"></path><circle cx=\"398\" cy=\"100\" r=\"22\" style=\"fill:var(--undergarment)\"></circle><path d=\"M398 100 L420 88 A 24 24 0 0 0 420 112 Z\" style=\"fill:var(--surface)\"></path><g stroke-width=\"1.4\" style=\"fill:var(--warm-5); stroke:var(--ink)\"><circle cx=\"470\" cy=\"84\" r=\"9\"></circle><circle cx=\"500\" cy=\"112\" r=\"9\"></circle><circle cx=\"530\" cy=\"80\" r=\"9\"></circle><circle cx=\"556\" cy=\"116\" r=\"9\"></circle></g><text x=\"240\" y=\"170\" class=\"svgl\" font-size=\"12\" stroke=\"none\" style=\"fill:var(--ink)\">Protein stain · cut up by an enzyme</text></svg>",
+  "6": "<svg focusable=\"false\" width=\"620\" height=\"210\" viewBox=\"0 0 620 210\" fill=\"none\" stroke-width=\"2\" stroke-linejoin=\"round\" role=\"img\" aria-label=\"Cross-section of a detergent pack split into filler and cleaning ingredients, illustrative only\" style=\"stroke:var(--ink)\"><path d=\"M220 30 h180 l10 20 v140 h-200 v-140 Z\" style=\"fill:var(--surface)\"></path><rect x=\"212\" y=\"120\" width=\"196\" height=\"68\" stroke=\"none\" style=\"fill:var(--surface-alt)\"></rect><g stroke-width=\"1\" opacity=\".6\" style=\"stroke:var(--ink-muted)\"><path d=\"M220 130 l20 -10 M240 150 l40 -20 M260 170 l60 -30 M300 180 l80 -40 M350 186 l58 -30 M220 170 l40 -20\"></path></g><rect x=\"212\" y=\"70\" width=\"196\" height=\"50\" stroke=\"none\" style=\"fill:var(--everyday)\"></rect><path d=\"M220 30 h180 l10 20 v140 h-200 v-140 Z\" fill=\"none\"></path><line x1=\"210\" y1=\"120\" x2=\"410\" y2=\"120\" stroke-dasharray=\"4 4\"></line><g class=\"svgl\" font-size=\"12\" stroke=\"none\" style=\"fill:var(--ink)\"><text x=\"430\" y=\"100\">Cleaning ingredients</text><text x=\"430\" y=\"160\">Filler · adds weight</text><text x=\"30\" y=\"160\">Illustrative,</text><text x=\"30\" y=\"176\">not to scale</text></g><path d=\"M424 96 h-14 M424 156 h-14\"></path></svg>"
 };

diff --git a/src/styles/global.css b/src/styles/global.css
@@ -102,10 +102,9 @@ h1, h2, .h2 {
 /* Type */
 .label {
   font-family: var(--font-body);
-  font-size: 12px;
-  font-weight: 700;
-  letter-spacing: .1em;
-  text-transform: uppercase;
+  font-size: 13px;
+  font-weight: 600;
+  letter-spacing: 0;
   color: var(--ink-muted);
   line-height: 1.5;
 }
@@ -152,7 +151,7 @@ h1, h2, .h2 {
   border: 1.5px dashed color-mix(in srgb, var(--ink) 35%, transparent);
   border-radius: 20px;
   display: flex; align-items: center; justify-content: center; text-align: center;
-  color: var(--ink-muted); font-size: 12px; font-weight: 600; letter-spacing: .06em; text-transform: uppercase;
+  color: var(--ink-muted); font-size: 13px; font-weight: 500;
   padding: 16px;
 }
 

diff --git a/scripts/extract-illustrations.py b/scripts/extract-illustrations.py
@@ -35,13 +35,28 @@ desktop[1] = (desktop[1]
 desktop[3] = re.sub(r'<rect x="220" y="156"[^>]*></rect>', '', desktop[3])
 desktop[3] = re.sub(r'<text[^>]*>← WHERE WE TEST: 200 TO 300</text>', '', desktop[3])
 
+# No uppercase anywhere on the site: illustration labels in sentence case.
+CONTINUATIONS = {"SCALE": "scale", "NOT TO SCALE": "not to scale", "MG/L": "mg/L"}
+
+def sentence(text):
+    if text in CONTINUATIONS:
+        return CONTINUATIONS[text]
+    t = text.lower()
+    t = re.sub(r"\bbis\b", "BIS", t).replace("mg/l", "mg/L")
+    t = re.sub(r"\bok\b", "OK", t)
+    return t[0].upper() + t[1:] if t[:1].isalpha() else t
+
+def sentence_case_svg(svg):
+    return re.sub(r"(<text[^>]*>)([^<]+)(</text>)", lambda m: m.group(1) + sentence(m.group(2)) + m.group(3), svg)
+
 for d in (mobile, desktop):
     for k, v in d.items():
+        v = sentence_case_svg(v)
         v = v.replace(' font-family="sans-serif"', '')
         v = re.sub(r'<svg ', '<svg focusable="false" ', v, count=1)
         d[k] = v
 
-checks = [('LIQUID 9+' in mobile[1]), ('LAUNDRY LIQUID · 9+' in desktop[1]), ('WHERE WE TEST' not in desktop[3]), ('x1="450"' not in desktop[1])]
+checks = [('Liquid 9+' in mobile[1]), ('Laundry liquid · 9+' in desktop[1]), ('WHERE WE TEST' not in desktop[3]), ('x1="450"' not in desktop[1])]
 assert all(checks), checks
 
 out = ROOT / "src" / "data" / "illustrations.ts"

diff --git a/IMPROVEMENTS.md b/IMPROVEMENTS.md
@@ -1,6 +1,6 @@
 # Where the build differs from the designs
 
-The designs in `design-handoff/` were treated as the visual baseline: tokens, type, layout and section order. Each difference below is either something you asked for, or a usability or accessibility fix I made. **The second group needs your approval.** Anything you don't want, tell me and I'll revert it.
+The designs in `design-handoff/` were treated as the visual baseline: tokens, type, layout and section order. Each difference below is either something you asked for, or a usability or accessibility fix I made. All of them are now approved (28 September 2026).
 
 The side-by-side screenshots in `qa/` show all of these as intended differences.
 
@@ -18,15 +18,15 @@ The side-by-side screenshots in `qa/` show all of these as intended differences.
 | 8 | Product pages, How it works | "[Name]™ technology" in a dark pill that looks like a button | Plain Eczar text with a yellow underline, so it can't be mistaken for a button. |
 | 9 | Copy throughout | See the copy doc | Your revised copy, plus the defaults listed in `PLACEHOLDERS.md` for the questions you skipped. |
 
-## I made these (please approve)
+## I proposed these (approved)
 
 | # | Where | Design | Build | Why |
 |---|---|---|---|---|
-| 10 | Mobile labels (homepage) | 10px uppercase labels on the homepage only; 12px everywhere else | 12px everywhere | 10px uppercase is hard to read on a phone, and the other pages already used 12px. |
-| 11 | Arrows (→ ↓ ←) | Typed as characters | Small line icons | Neither Eczar nor Mukta contains arrow characters, so phones were drawing them in a random fallback font. |
+| 10 | Labels, callouts, table headings, placeholders, illustration text | Uppercase with wide letter-spacing | **No uppercase anywhere on the site** (your decision): sentence case, 13px semibold labels with normal spacing. Illustration labels are sentence case too; acronyms stay as written (BIS, OK, mg/L, HE, IFRA). | Easier to read, and consistent. |
+| 11 | Arrows (→ ↓ ←) | Typed as characters | Small line icons drawn to match the text | Neither Eczar nor Mukta contains arrow characters. Typed arrows would still appear, but in whatever font each phone falls back to, so they'd look different on iPhone and Android. The icons look the same everywhere. |
 | 12 | Carousel dots | Decorative | Tappable, with 44px tap areas, and labelled for screen readers ("Show Quikwash") | The brief requires it. They look the same. |
 | 13 | Homepage product cards (desktop) | Line under the card in quotation marks, e.g. "“A short wash should still be a complete wash.”" | Your new lines without quotation marks | Claims inside quotation marks read like customer testimonials, which the brief rules out. |
-| 14 | Everyday Wash card tags | You changed them to "All fabric types" | Cottons · Blends · Bedsheets · Towels (the original) | Everyday Wash contains protease, which breaks down protein fibres such as wool and silk. "All fabric types" would likely be untrue. |
+| 14 | Everyday Wash card tags | Cottons · Blends · Bedsheets · Towels | "All fabric types" (your decision) | Kept at your request. See the protease note in `PLACEHOLDERS.md`. |
 | 15 | Everyday Wash card line (desktop) | "7 signs of fabric ageing" in your edit | "8 signs" | The Everyday Wash page headline and its eight tiles say 8. |
 | 16 | "The other two" labels | Differed from page to page | Everyday loads · Sweat and odour · Hand wash, the same everywhere | Consistency. The homepage cards keep your own labels. |
 | 17 | Image alt text | Mobile and desktop used different wording; the ageing photos repeated their captions | One alt text per photo (the more descriptive desktop version); the ageing photos are marked decorative | Screen readers otherwise read each caption twice. |

diff --git a/COPY.md b/COPY.md
@@ -84,7 +84,7 @@ The site reads its copy from the code files named in each section, not from this
 |---|---|---|---|
 | label | Everyday loads | Quick cycle | Hand wash |
 | line | For the daily pile. | For sweaty synthetics or lightly worn clothes. | For intimate stains, washed by hand. |
-| tags | Cottons · Blends · Bedsheets · Towels | Gym wear · Athleisure · Cotton | Innerwear · Period stains · Lingerie |
+| tags | All fabric types | Gym wear · Athleisure · Cotton | Innerwear · Period stains · Lingerie |
 | line under tags (desktop) | Gentle on fabric. Protects against 8 signs of fabric ageing. | No re-stink, even after 50 washes. | Removes 6 types of intimate stains. |
 | buttons | Notify me · Learn more | Notify me · Learn more | Notify me · Learn more |
 
@@ -100,7 +100,7 @@ The site reads its copy from the code files named in each section, not from this
 - **expl.d**: Detergents are often made strongly alkaline, because a high pH breaks down grease and stains fast. The same alkalinity can leave skin dry and irritated, and wears fibres down wash after wash.
 - **proof**: Laundry liquids typically wash at pH 9 or higher. Healthy skin sits below pH 5.
 - **ours**: Each formula is being built to clean at the gentlest pH that does the job.
-- **illustration**: SKIN < 5 · LIQUID 9+ (mobile); HEALTHY SKIN · BELOW 5 · LAUNDRY LIQUID · 9+ · ACIDIC · NEUTRAL · ALKALINE (desktop)
+- **illustration**: Skin < 5 · Liquid 9+ (mobile); Healthy skin · below 5 · Laundry liquid · 9+ · Acidic · Neutral · Alkaline (desktop). All illustration labels are in sentence case; no uppercase anywhere on the site.
 
 **02 Doesn't protect fabric**
 - **expl.m**: Detergents are sold on how clean clothes look after one wash, not on what fifty washes do to colour, stretch and strength.

diff --git a/PLACEHOLDERS.md b/PLACEHOLDERS.md
@@ -70,6 +70,7 @@ These come from the copy review. You didn't answer them, so the site uses my def
 | k | Undergarment Wash is the only product page without "How much will it cost?". Its FAQ "Can I use it in the washing machine?" doesn't say yes or no. | As written. |
 | l | The blog post's cover image is the same tap photo used on the Everyday Wash page. | As written. |
 | m | Why Twist, myth 2 calls optical brighteners "dyes" (technically they are fluorescent whitening agents). | As written. |
+| n | Everyday Wash card says "All fabric types", but its formula includes protease, which breaks down protein fibres such as wool and silk. Enzyme detergents usually say "not for wool or silk". | "All fabric types", at your request. Confirm with the formulator before ads run. |
 
 ## 6. Things to know before launch (not copy)
 
